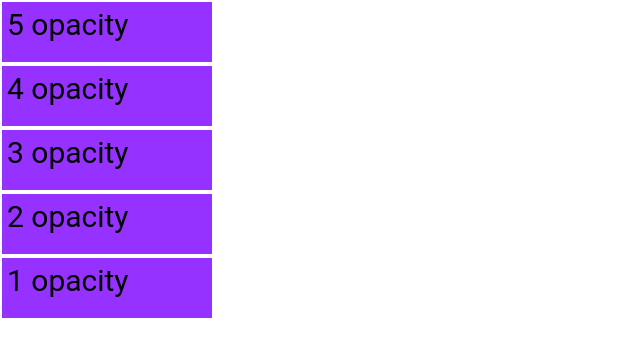
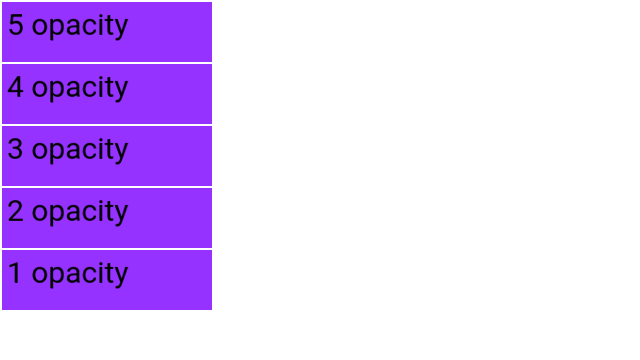
Collapse vertical margins in a block formatting context.
This adds support for collapsing vertical margins between adjacent
block-level boxes in a block formatting context.

This fixes b/28014061.

diff --git a/cobalt/layout_tests/testdata/css-2-1/9-4-1-vertical-margins-between-adjacent-block-level-boxes-in-a-block-formatting-context-collapse.html b/cobalt/layout_tests/testdata/css-2-1/9-4-1-vertical-margins-between-adjacent-block-level-boxes-in-a-block-formatting-context-collapse.html
@@ -1,0 +1,47 @@
+<!DOCTYPE html>
+<!--
+ | Vertical margins between adjacent block-level boxes in a block formatting
+ | context collapse.
+ |   https://www.w3.org/TR/CSS21/visuren.html#block-formatting
+ -->
+<html>
+<head>
+  <style>
+    body {
+      margin: 0px;
+      font-family: Roboto;
+    }
+    .inline-block {
+      display: inline-block;
+    }
+    .box {
+      padding:15px;
+    }
+    .light-grey {
+      background-color: #EEEEEE;
+    }
+    .light-teal {
+      background-color: #80CBC4;
+    }
+    .teal {
+      background-color: #26A69A;
+    }
+  </style>
+</head>
+<body>
+  <div style="margin:10px; max-width:40px;" class="light-grey inline-block">
+    <div style="                 margin-bottom: 10px" class="box teal"></div>
+    <div style="margin-top: 5px; margin-bottom:-10px" class="box light-teal"></div>
+    <div style="margin-top: 5px; margin-bottom: 10px" class="box teal"></div>
+    <div style="margin-top:-5px; margin-bottom:-10px" class="box light-teal"></div>
+    <div style="margin-top:-5px;" class="box teal"></div>
+  </div>
+  <div style="margin:10px; max-width:40px;" class="light-grey inline-block">
+    <div style="                  margin-bottom: 5px" class="box teal"></div>
+    <div style="margin-top: 10px; margin-bottom:-5px" class="box light-teal"></div>
+    <div style="margin-top: 10px; margin-bottom: 5px" class="box teal"></div>
+    <div style="margin-top:-10px; margin-bottom:-5px" class="box light-teal"></div>
+    <div style="margin-top:-10px;" class="box teal"></div>
+  </div>
+</body>
+</html>

diff --git a/cobalt/layout/block_formatting_context.cc b/cobalt/layout/block_formatting_context.cc
@@ -26,15 +26,15 @@ namespace layout {
 
 BlockFormattingContext::BlockFormattingContext(
     const LayoutParams& layout_params)
-    : layout_params_(layout_params) {}
+    : layout_params_(layout_params), collapsing_margin_(0) {}
 
 BlockFormattingContext::~BlockFormattingContext() {}
 
 void BlockFormattingContext::UpdateRect(Box* child_box) {
   DCHECK(!child_box->IsAbsolutelyPositioned());
 
-  UpdatePosition(child_box);
   child_box->UpdateSize(layout_params_);
+  UpdatePosition(child_box);
 
   // Shrink-to-fit width cannot be less than the width of the widest child.
   //   https://www.w3.org/TR/CSS21/visudet.html#float-width
@@ -47,6 +47,7 @@ void BlockFormattingContext::UpdateRect(Box* child_box) {
   // child.
   //   https://www.w3.org/TR/CSS21/visudet.html#normal-block
   set_auto_height(child_box->GetMarginBoxBottomEdgeOffsetFromContainingBlock());
+  collapsing_margin_ = child_box->margin_bottom();
 
   // The baseline of an "inline-block" is the baseline of its last line box
   // in the normal flow, unless it has no in-flow line boxes.
@@ -77,12 +78,33 @@ void BlockFormattingContext::UpdatePosition(Box* child_box) {
   // In a block formatting context, boxes are laid out one after the other,
   // vertically, beginning at the top of a containing block. The vertical
   // distance between two sibling boxes is determined by the "margin"
-  // properties.
+  // properties. Vertical margins between adjacent block-level boxes in a block
+  // formatting context collapse.
   //   https://www.w3.org/TR/CSS21/visuren.html#block-formatting
-  //
-  // TODO(***REMOVED***): Vertical margins between adjacent block-level boxes
-  //               in a block formatting context collapse.
-  child_box->set_top(auto_height());
+
+  // When two or more margins collapse, the resulting margin width is the
+  // maximum of the collapsing margins' widths.
+  //   https://www.w3.org/TR/CSS21/box.html#collapsing-margins
+  const float margin_top = child_box->margin_top();
+  float collapsed_margin;
+  if ((margin_top >= 0.0f) && (collapsing_margin_ >= 0.0f)) {
+    collapsed_margin = std::max(margin_top, collapsing_margin_);
+  } else if ((margin_top < 0.0f) && (collapsing_margin_ < 0.0f)) {
+    // If there are no positive margins, the maximum of the absolute values of
+    // the adjoining margins is deducted from zero.
+    collapsed_margin = 0.0f + std::min(margin_top, collapsing_margin_);
+  } else {
+    // In the case of negative margins, the maximum of the absolute values of
+    // the negative adjoining margins is deducted from the maximum of the
+    // positive adjoining margins.
+    // When there is only one negative and one positive margin, that translates
+    // to: The margins are summed.
+    DCHECK(collapsing_margin_ >= 0.0f || margin_top >= 0.0f);
+    collapsed_margin = collapsing_margin_ + margin_top;
+  }
+
+  float combined_margin = collapsing_margin_ + margin_top;
+  child_box->set_top(auto_height() - combined_margin + collapsed_margin);
 }
 
 }  // namespace layout

diff --git a/cobalt/layout/box.h b/cobalt/layout/box.h
@@ -193,6 +193,8 @@ class Box : public base::RefCounted<Box> {
   float GetMarginBoxTopEdge() const;
   float GetMarginBoxRightEdgeOffsetFromContainingBlock() const;
   float GetMarginBoxBottomEdgeOffsetFromContainingBlock() const;
+  float margin_top() const { return margin_insets_.top(); }
+  float margin_bottom() const { return margin_insets_.bottom(); }
 
   // Border box.
   float GetBorderBoxWidth() const;
@@ -439,7 +441,6 @@ class Box : public base::RefCounted<Box> {
   void set_margin_left(float margin_left) {
     margin_insets_.set_left(RoundToFixedPointPrecision(margin_left));
   }
-  float margin_top() const { return margin_insets_.top(); }
   void set_margin_top(float margin_top) {
     margin_insets_.set_top(RoundToFixedPointPrecision(margin_top));
   }
@@ -447,7 +448,6 @@ class Box : public base::RefCounted<Box> {
   void set_margin_right(float margin_right) {
     margin_insets_.set_right(RoundToFixedPointPrecision(margin_right));
   }
-  float margin_bottom() const { return margin_insets_.bottom(); }
   void set_margin_bottom(float margin_bottom) {
     margin_insets_.set_bottom(RoundToFixedPointPrecision(margin_bottom));
   }

diff --git a/cobalt/layout/block_formatting_context.h b/cobalt/layout/block_formatting_context.h
@@ -51,6 +51,7 @@ class BlockFormattingContext : public FormattingContext {
   void UpdatePosition(Box* child_box);
 
   const LayoutParams layout_params_;
+  float collapsing_margin_;
 
   DISALLOW_COPY_AND_ASSIGN(BlockFormattingContext);
 };
